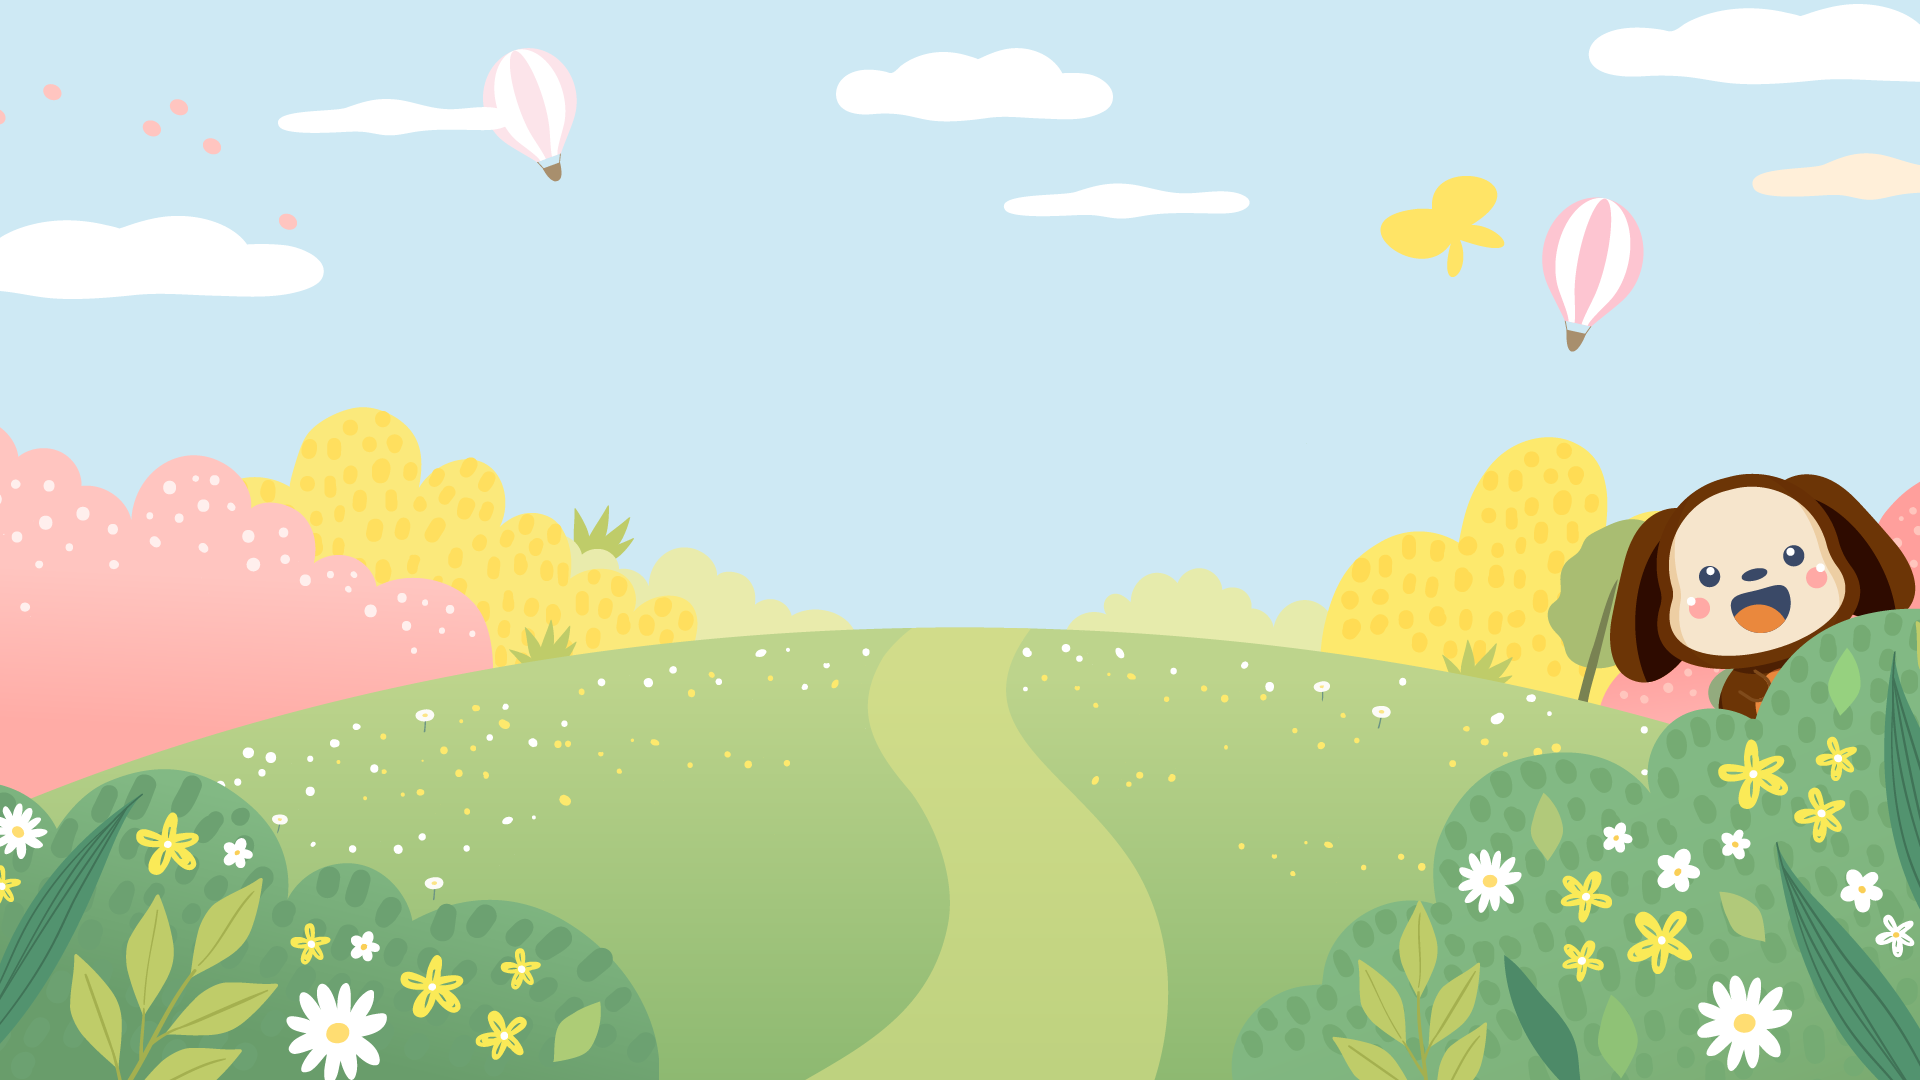
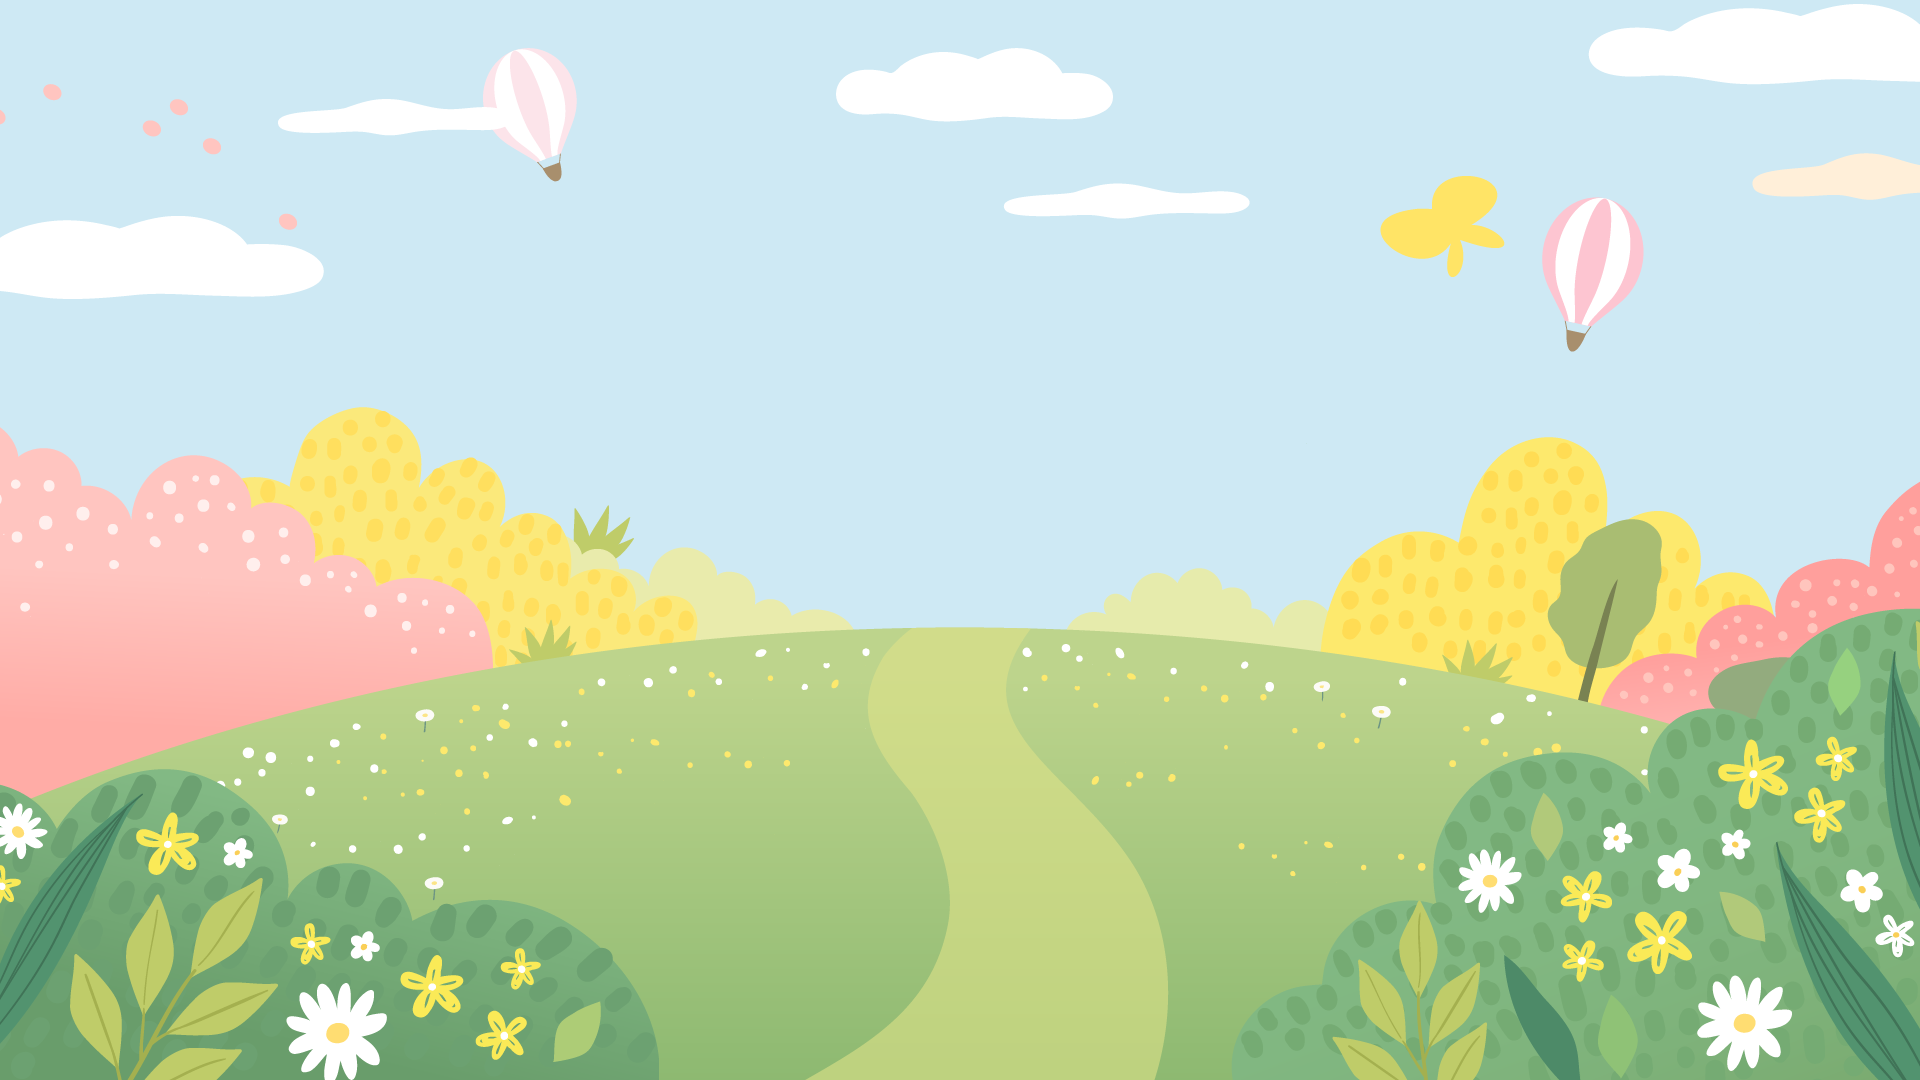
0.2

Changed region(s): [[0.8125, 0.4278, 1.0, 0.6722]]

diff --git a/scripts/c3runtime.js b/scripts/c3runtime.js
@@ -3957,6 +3957,29 @@ VALID_AXES.indexOf(str);if(a===-1)throw new Error("invalid axes");map.get(this).
 }
 
 {
+'use strict';{const C3=self.C3;C3.Behaviors.Pin=class PinBehavior extends C3.SDKBehaviorBase{constructor(opts){super(opts)}Release(){super.Release()}}}{const C3=self.C3;C3.Behaviors.Pin.Type=class PinType extends C3.SDKBehaviorTypeBase{constructor(behaviorType){super(behaviorType)}Release(){super.Release()}OnCreate(){}}}
+{const C3=self.C3;C3.Behaviors.Pin.Instance=class PinInstance extends C3.SDKBehaviorInstanceBase{constructor(behInst,properties){super(behInst);this._pinInst=null;this._pinUid=-1;this._mode="";this._propSet=new Set;this._pinDist=0;this._pinAngle=0;this._pinImagePoint=0;this._dx=0;this._dy=0;this._dWidth=0;this._dHeight=0;this._dAngle=0;this._dz=0;this._lastKnownAngle=0;this._destroy=false;if(properties)this._destroy=properties[0];const rt=this._runtime.Dispatcher();this._disposables=new C3.CompositeDisposable(C3.Disposable.From(rt,
+"instancedestroy",e=>this._OnInstanceDestroyed(e.instance)),C3.Disposable.From(rt,"afterload",e=>this._OnAfterLoad()))}Release(){this._pinInst=null;super.Release()}_SetPinInst(inst){if(inst){this._pinInst=inst;this._StartTicking2()}else{this._pinInst=null;this._StopTicking2()}}_Pin(objectClass,mode,propList){if(!objectClass)return;const otherInst=objectClass.GetFirstPicked(this._inst);if(!otherInst)return;this._mode=mode;this._SetPinInst(otherInst);const myWi=this._inst.GetWorldInfo();const otherWi=
+otherInst.GetWorldInfo();if(this._mode==="properties"){const propSet=this._propSet;propSet.clear();for(const p of propList)propSet.add(p);this._dx=myWi.GetX()-otherWi.GetX();this._dy=myWi.GetY()-otherWi.GetY();this._dAngle=myWi.GetAngle()-otherWi.GetAngle();this._lastKnownAngle=myWi.GetAngle();this._dz=myWi.GetZElevation()-otherWi.GetZElevation();if(propSet.has("x")&&propSet.has("y")){this._pinAngle=C3.angleTo(otherWi.GetX(),otherWi.GetY(),myWi.GetX(),myWi.GetY())-otherWi.GetAngle();this._pinDist=
+C3.distanceTo(otherWi.GetX(),otherWi.GetY(),myWi.GetX(),myWi.GetY())}if(propSet.has("width-abs"))this._dWidth=myWi.GetWidth()-otherWi.GetWidth();else if(propSet.has("width-scale"))this._dWidth=myWi.GetWidth()/otherWi.GetWidth();if(propSet.has("height-abs"))this._dHeight=myWi.GetHeight()-otherWi.GetHeight();else if(propSet.has("height-scale"))this._dHeight=myWi.GetHeight()/otherWi.GetHeight()}else this._pinDist=C3.distanceTo(otherWi.GetX(),otherWi.GetY(),myWi.GetX(),myWi.GetY())}SaveToJson(){const propSet=
+this._propSet;const mode=this._mode;const ret={"uid":this._pinInst?this._pinInst.GetUID():-1,"m":mode,"d":this._destroy};if(mode==="rope"||mode==="bar")ret["pd"]=this._pinDist;else if(mode==="properties"){ret["ps"]=[...this._propSet];if(propSet.has("imagepoint"))ret["ip"]=this._pinImagePoint;else if(propSet.has("x")&&propSet.has("y")){ret["pa"]=this._pinAngle;ret["pd"]=this._pinDist}else{if(propSet.has("x"))ret["dx"]=this._dx;if(propSet.has("y"))ret["dy"]=this._dy}if(propSet.has("angle")){ret["da"]=
+this._dAngle;ret["lka"]=this._lastKnownAngle}if(propSet.has("width-abs")||propSet.has("width-scale"))ret["dw"]=this._dWidth;if(propSet.has("height-abs")||propSet.has("height-scale"))ret["dh"]=this._dHeight;if(propSet.has("z"))ret["dz"]=this._dz}return ret}LoadFromJson(o){const mode=o["m"];const propSet=this._propSet;propSet.clear();this._pinUid=o["uid"];if(typeof mode==="number"){this._LoadFromJson_Legacy(o);return}this._mode=mode;if(o.hasOwnProperty("d"))this._destroy=!!o["d"];if(mode==="rope"||
+mode==="bar")this._pinDist=o["pd"];else if(mode==="properties"){for(const p of o["ps"])propSet.add(p);if(propSet.has("imagepoint"))this._pinImagePoint=o["ip"];else if(propSet.has("x")&&propSet.has("y")){this._pinAngle=o["pa"];this._pinDist=o["pd"]}else{if(propSet.has("x"))this._dx=o["dx"];if(propSet.has("y"))this._dy=o["dy"]}if(propSet.has("angle")){this._dAngle=o["da"];this._lastKnownAngle=o["lka"]||0}if(propSet.has("width-abs")||propSet.has("width-scale"))this._dWidth=o["dw"];if(propSet.has("height-abs")||
+propSet.has("height-scale"))this._dHeight=o["dh"];if(propSet.has("z"))this._dz=o["dz"]}}_LoadFromJson_Legacy(o){const propSet=this._propSet;const myStartAngle=o["msa"];const theirStartAngle=o["tsa"];const pinAngle=o["pa"];const pinDist=o["pd"];const mode=o["m"];switch(mode){case 0:this._mode="properties";propSet.add("x").add("y").add("angle");this._pinAngle=pinAngle;this._pinDist=pinDist;this._dAngle=myStartAngle-theirStartAngle;this._lastKnownAngle=o["lka"];break;case 1:this._mode="properties";propSet.add("x").add("y");
+this._pinAngle=pinAngle;this._pinDist=pinDist;break;case 2:this._mode="properties";propSet.add("angle");this._dAngle=myStartAngle-theirStartAngle;this._lastKnownAngle=o["lka"];break;case 3:this._mode="rope";this._pinDist=o["pd"];break;case 4:this._mode="bar";this._pinDist=o["pd"];break}}_OnAfterLoad(){if(this._pinUid===-1)this._SetPinInst(null);else{this._SetPinInst(this._runtime.GetInstanceByUID(this._pinUid));this._pinUid=-1}}_OnInstanceDestroyed(inst){if(this._pinInst===inst){this._SetPinInst(null);
+if(this._destroy)this._runtime.DestroyInstance(this._inst)}}Tick2(){const pinInst=this._pinInst;if(!pinInst)return;const pinWi=pinInst.GetWorldInfo();const myInst=this._inst;const myWi=myInst.GetWorldInfo();const mode=this._mode;let bboxChanged=false;if(mode==="rope"||mode==="bar"){const dist=C3.distanceTo(myWi.GetX(),myWi.GetY(),pinWi.GetX(),pinWi.GetY());if(dist>this._pinDist||mode==="bar"&&dist<this._pinDist){const a=C3.angleTo(pinWi.GetX(),pinWi.GetY(),myWi.GetX(),myWi.GetY());myWi.SetXY(pinWi.GetX()+
+Math.cos(a)*this._pinDist,pinWi.GetY()+Math.sin(a)*this._pinDist);bboxChanged=true}}else{const propSet=this._propSet;let v=0;if(propSet.has("imagepoint")){const [newX,newY]=pinInst.GetImagePoint(this._pinImagePoint);if(!myWi.EqualsXY(newX,newY)){myWi.SetXY(newX,newY);bboxChanged=true}}else if(propSet.has("x")&&propSet.has("y")){const newX=pinWi.GetX()+Math.cos(pinWi.GetAngle()+this._pinAngle)*this._pinDist;const newY=pinWi.GetY()+Math.sin(pinWi.GetAngle()+this._pinAngle)*this._pinDist;if(!myWi.EqualsXY(newX,
+newY)){myWi.SetXY(newX,newY);bboxChanged=true}}else{v=pinWi.GetX()+this._dx;if(propSet.has("x")&&v!==myWi.GetX()){myWi.SetX(v);bboxChanged=true}v=pinWi.GetY()+this._dy;if(propSet.has("y")&&v!==myWi.GetY()){myWi.SetY(v);bboxChanged=true}}if(propSet.has("angle")){if(this._lastKnownAngle!==myWi.GetAngle())this._dAngle=C3.clampAngle(this._dAngle+(myWi.GetAngle()-this._lastKnownAngle));v=C3.clampAngle(pinWi.GetAngle()+this._dAngle);if(v!==myWi.GetAngle()){myWi.SetAngle(v);bboxChanged=true}this._lastKnownAngle=
+myWi.GetAngle()}if(propSet.has("width-abs")){v=pinWi.GetWidth()+this._dWidth;if(v!==myWi.GetWidth()){myWi.SetWidth(v);bboxChanged=true}}if(propSet.has("width-scale")){v=pinWi.GetWidth()*this._dWidth;if(v!==myWi.GetWidth()){myWi.SetWidth(v);bboxChanged=true}}if(propSet.has("height-abs")){v=pinWi.GetHeight()+this._dHeight;if(v!==myWi.GetHeight()){myWi.SetHeight(v);bboxChanged=true}}if(propSet.has("height-scale")){v=pinWi.GetHeight()*this._dHeight;if(v!==myWi.GetHeight()){myWi.SetHeight(v);bboxChanged=
+true}}if(propSet.has("z")){v=pinWi.GetZElevation()+this._dz;if(v!==myWi.GetZElevation()){myWi.SetZElevation(v);this._runtime.UpdateRender()}}}if(bboxChanged)myWi.SetBboxChanged()}GetDebuggerProperties(){const prefix="behaviors.pin.debugger";return[{title:"$"+this.GetBehaviorType().GetName(),properties:[{name:prefix+".is-pinned",value:!!this._pinInst},{name:prefix+".pinned-uid",value:this._pinInst?this._pinInst.GetUID():0}]}]}}}
+{const C3=self.C3;C3.Behaviors.Pin.Cnds={IsPinned(){return!!this._pinInst},WillDestroy(){return this._destroy}}}
+{const C3=self.C3;C3.Behaviors.Pin.Acts={PinByDistance(objectClass,mode){this._Pin(objectClass,mode===0?"rope":"bar")},PinByProperties(objectClass,ex,ey,ea,ew,eh,ez){const propList=[];if(ex)propList.push("x");if(ey)propList.push("y");if(ea)propList.push("angle");if(ez)propList.push("z");if(ew===1)propList.push("width-abs");else if(ew===2)propList.push("width-scale");if(eh===1)propList.push("height-abs");else if(eh===2)propList.push("height-scale");if(propList.length===0)return;this._Pin(objectClass,
+"properties",propList)},PinByImagePoint(objectClass,imgPt,ea,ew,eh,ez){const propList=["imagepoint"];if(ea)propList.push("angle");if(ez)propList.push("z");if(ew===1)propList.push("width-abs");else if(ew===2)propList.push("width-scale");if(eh===1)propList.push("height-abs");else if(eh===2)propList.push("height-scale");this._pinImagePoint=imgPt;this._Pin(objectClass,"properties",propList)},SetPinDistance(d){if(this._mode==="rope"||this._mode==="bar")this._pinDist=Math.max(d,0)},SetDestroy(d){this._destroy=
+d},Unpin(){this._SetPinInst(null);this._mode="";this._propSet.clear();this._pinImagePoint=""},Pin(objectClass,mode){switch(mode){case 0:this._Pin(objectClass,"properties",["x","y","angle"]);break;case 1:this._Pin(objectClass,"properties",["x","y"]);break;case 2:this._Pin(objectClass,"properties",["angle"]);break;case 3:this._Pin(objectClass,"rope");break;case 4:this._Pin(objectClass,"bar");break}}}}{const C3=self.C3;C3.Behaviors.Pin.Exps={PinnedUID(){return this._pinInst?this._pinInst.GetUID():-1}}};
+
+}
+
+{
 const C3 = self.C3;
 self.C3_GetObjectRefTable = function () {
 	return [
@@ -3971,9 +3994,14 @@ self.C3_GetObjectRefTable = function () {
 		C3.Behaviors.Sin,
 		C3.Plugins.Particles,
 		C3.Behaviors.DragnDrop,
+		C3.Behaviors.Pin,
 		C3.Plugins.System.Cnds.OnLayoutStart,
+		C3.Plugins.Sprite.Acts.SetPos,
+		C3.Behaviors.Pin.Acts.PinByProperties,
+		C3.Plugins.Sprite.Acts.SetY,
 		C3.Plugins.Sprite.Acts.SetScale,
 		C3.Plugins.System.Acts.Wait,
+		C3.Behaviors.Tween.Acts.TweenOneProperty,
 		C3.Behaviors.Tween.Acts.TweenTwoProperties,
 		C3.Plugins.Touch.Cnds.OnTapGestureObject,
 		C3.Behaviors.Tween.Cnds.OnTweensFinished,
@@ -4008,7 +4036,6 @@ self.C3_GetObjectRefTable = function () {
 		C3.Plugins.System.Acts.NextPrevLayout,
 		C3.Plugins.System.Acts.CreateObject,
 		C3.Plugins.Particles.Acts.SetAngle,
-		C3.Behaviors.Tween.Acts.TweenOneProperty,
 		C3.Plugins.Sprite.Cnds.OnCreated,
 		C3.Behaviors.Rotate.Acts.SetSpeed,
 		C3.Plugins.System.Exps.choose,
@@ -4046,9 +4073,17 @@ self.C3_JsPropNameTable = [
 	{Sine2: 0},
 	{Confetti: 0},
 	{Particles: 0},
+	{dog_tail: 0},
+	{dog_head: 0},
+	{dog_ear_R: 0},
+	{dog_ear_L: 0},
+	{dog_body: 0},
+	{bush: 0},
 	{beads: 0},
 	{DragDrop: 0},
 	{blocks: 0},
+	{Pin: 0},
+	{dogs: 0},
 	{state: 0},
 	{total_block: 0},
 	{i: 0},
@@ -4153,19 +4188,40 @@ function or(l, r)
 }
 
 self.C3_ExpressionFuncs = [
+		() => 1770,
+		() => 648,
+		() => 1677,
+		() => 507,
+		() => 1785,
+		() => 480,
+		() => 1786,
+		() => 695,
+		() => 1830,
+		() => 687,
+		() => 1258,
 		() => 0,
 		() => 0.5,
+		() => "in",
 		() => "",
 		() => 1,
 		() => 0.25,
 		() => 0.125,
 		() => "out",
+		() => "ang1",
+		() => -10,
+		() => 0.2,
+		() => 0.4,
+		() => -5,
+		() => "ang2",
+		() => 10,
+		() => "ang3",
+		() => 5,
+		() => "ang4",
 		() => "play",
 		p => {
 			const n0 = p._GetNode(0);
 			return () => n0.ExpObject();
 		},
-		() => "in",
 		p => {
 			const f0 = p._GetNode(0).GetBoundMethod();
 			return () => f0();
@@ -4190,7 +4246,6 @@ self.C3_ExpressionFuncs = [
 		() => "wrong",
 		() => "4",
 		() => "over",
-		() => -10,
 		() => "POP",
 		() => 960,
 		() => 500,
